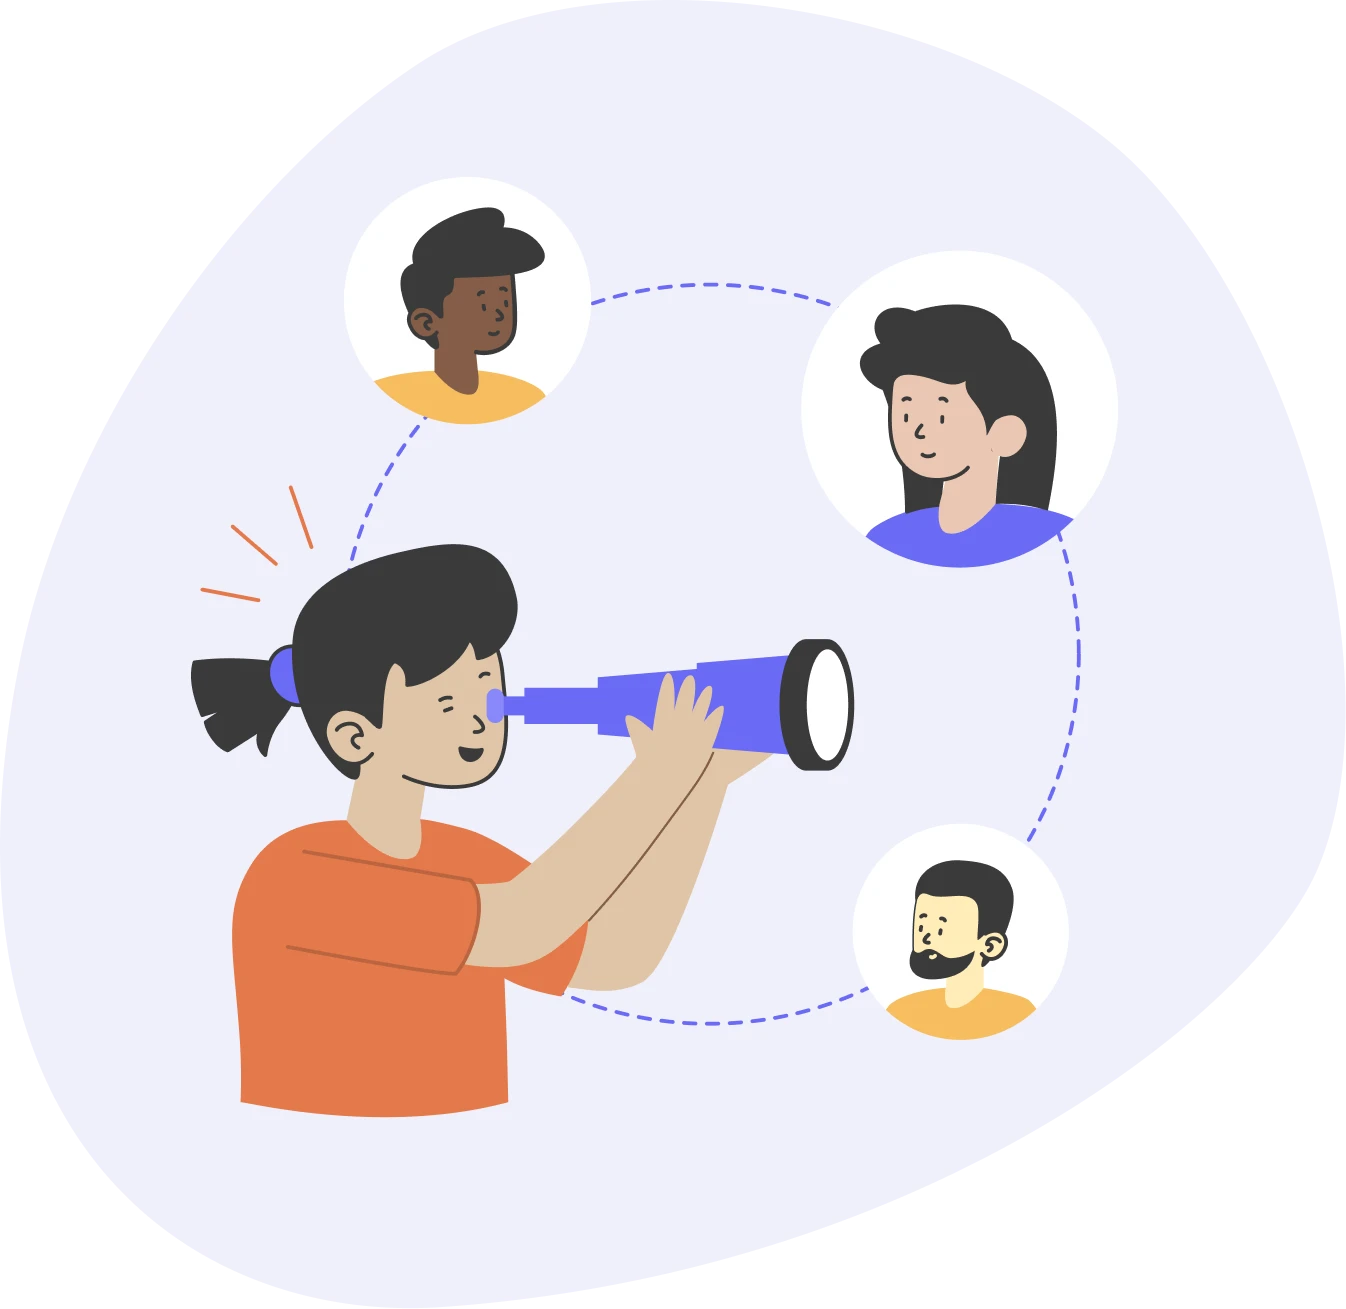
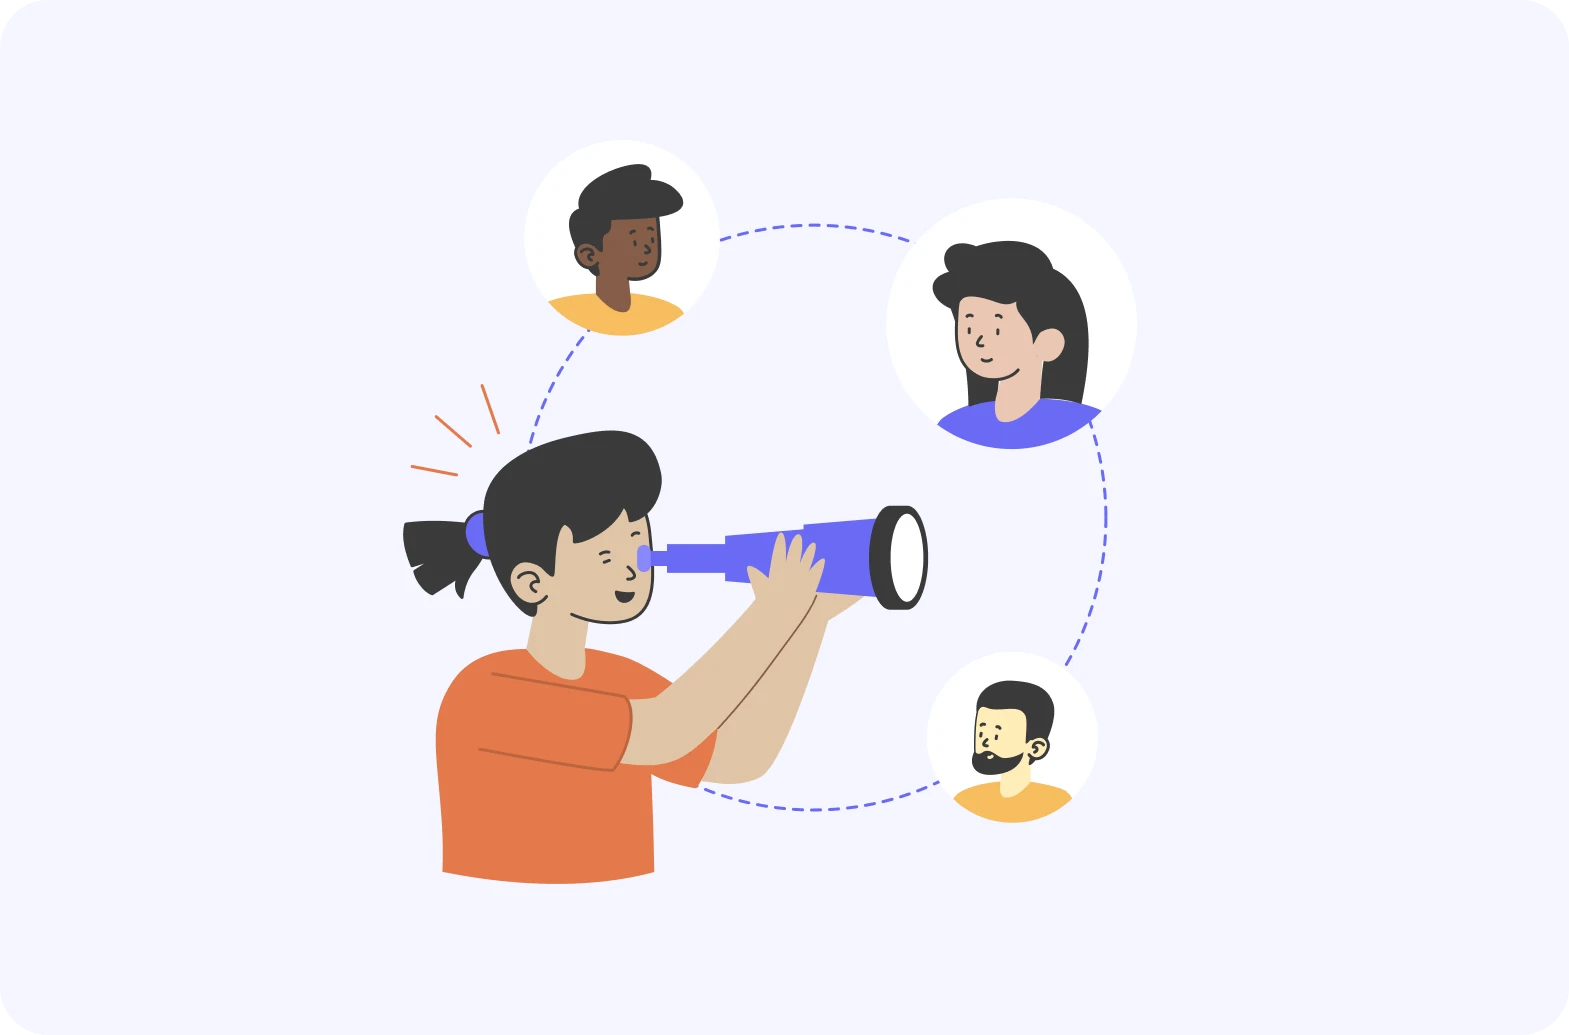
chore: Delete useless image, replace with a good one

diff --git a/src/client/src/Pages/SiteRecommandation/WhoIsYourEmployer.tsx b/src/client/src/Pages/SiteRecommandation/WhoIsYourEmployer.tsx
@@ -2,7 +2,7 @@ import { RadioButtons } from "@codegouvfr/react-dsfr/RadioButtons";
 import Button from "@codegouvfr/react-dsfr/Button";
 import { useState } from "react";
 import { bosses, bossNames, bossNameType } from "./constants";
-import profiling from "../../assets/illu_profiling.webp";
+import profiling from "../../assets/illu_profiling_eligibility.webp";
 import { useNavigate } from "react-router-dom";
 
 export function WhoIsYourEmployer() {

diff --git a/src/client/src/Pages/HomeLayout.tsx b/src/client/src/Pages/HomeLayout.tsx
@@ -1,6 +1,6 @@
 import React from "react";
 import welcome from "../assets/illu_hero.webp";
-import profiling_transparent from "../assets/illu_profiling_transparent.webp";
+import profiling_transparent from "../assets/illu_profiling.webp";
 import suite from "../assets/illu_suite.webp";
 import illu_partners from "../assets/illu_partners.webp";
 import "./layout.css";
